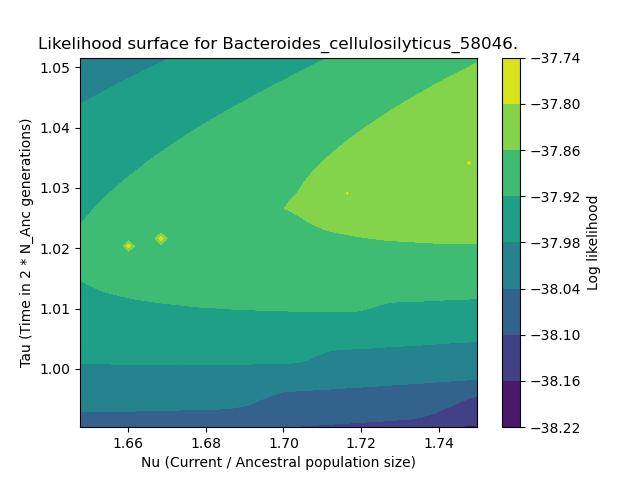
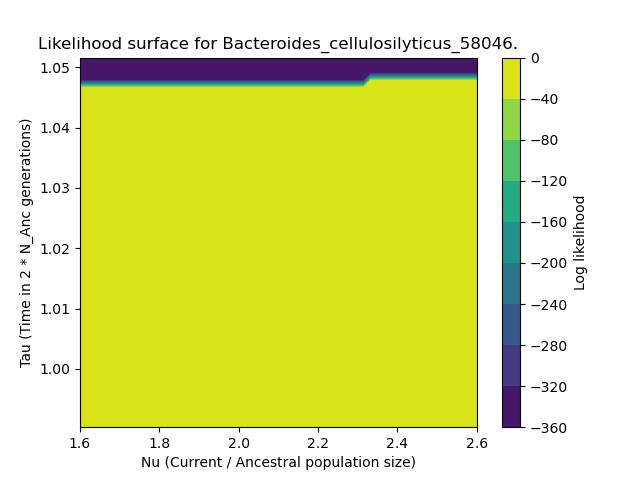
B. cellulosilyticus

diff --git a/Scripts/plot_likelihood.py b/Scripts/plot_likelihood.py
@@ -466,7 +466,8 @@ class PlotLikelihood():
 
                 npts = 50
 
-                x_range = numpy.linspace(x * 0.97, x * 1.03, npts)
+                # x_range = numpy.linspace(x * 0.97, x * 1.03, npts)
+                x_range = numpy.linspace(1.6, 2.6, npts)
                 y_range = numpy.linspace(y * 0.97, y * 1.03, npts)
 
                 X, Y = numpy.meshgrid(x_range, y_range)
